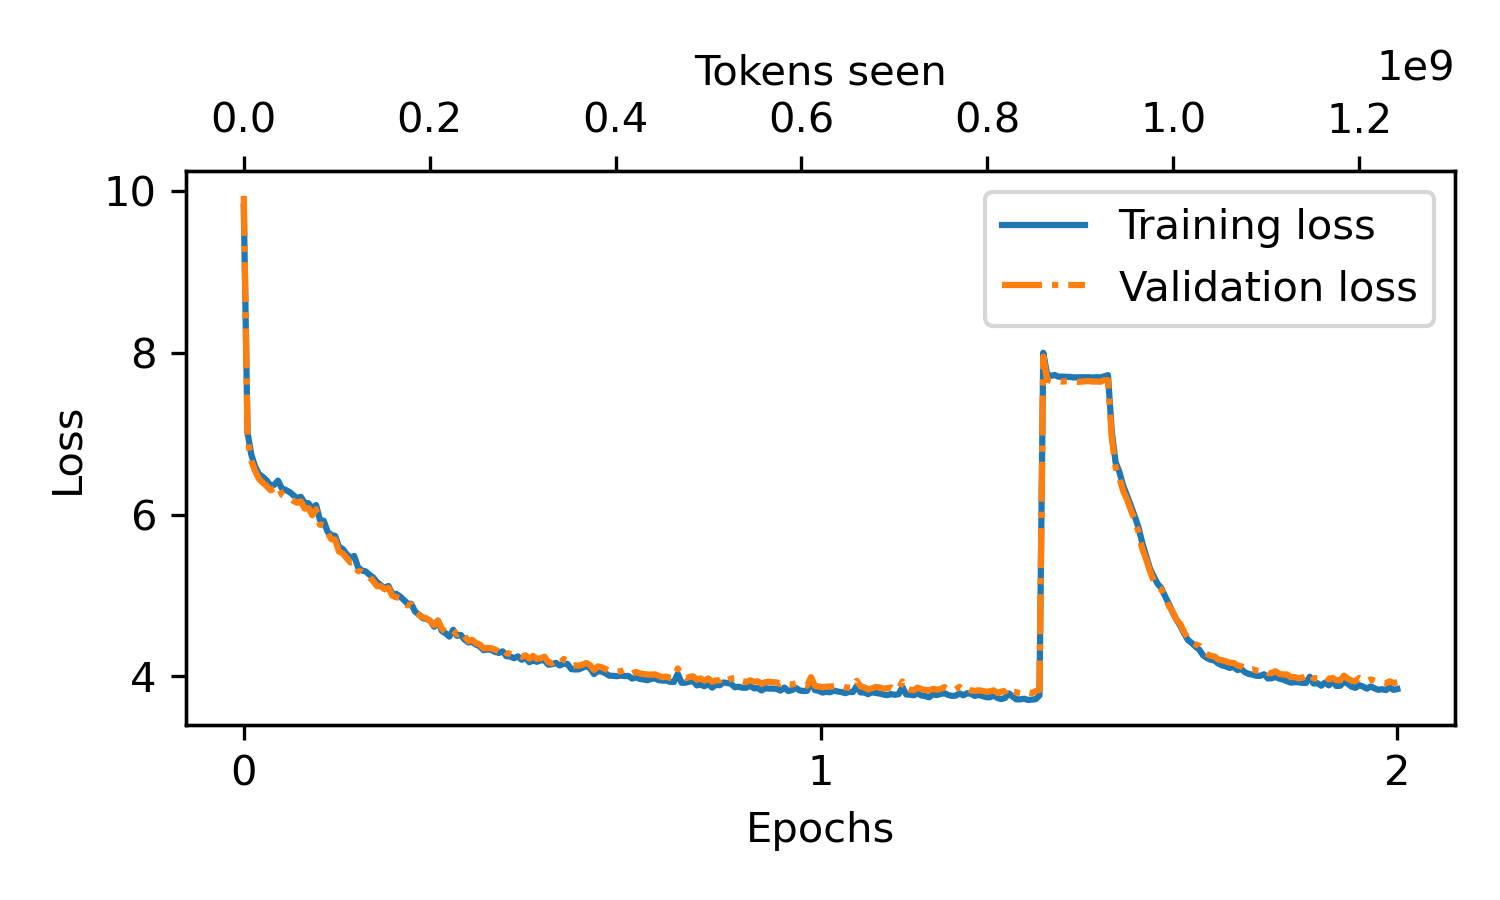
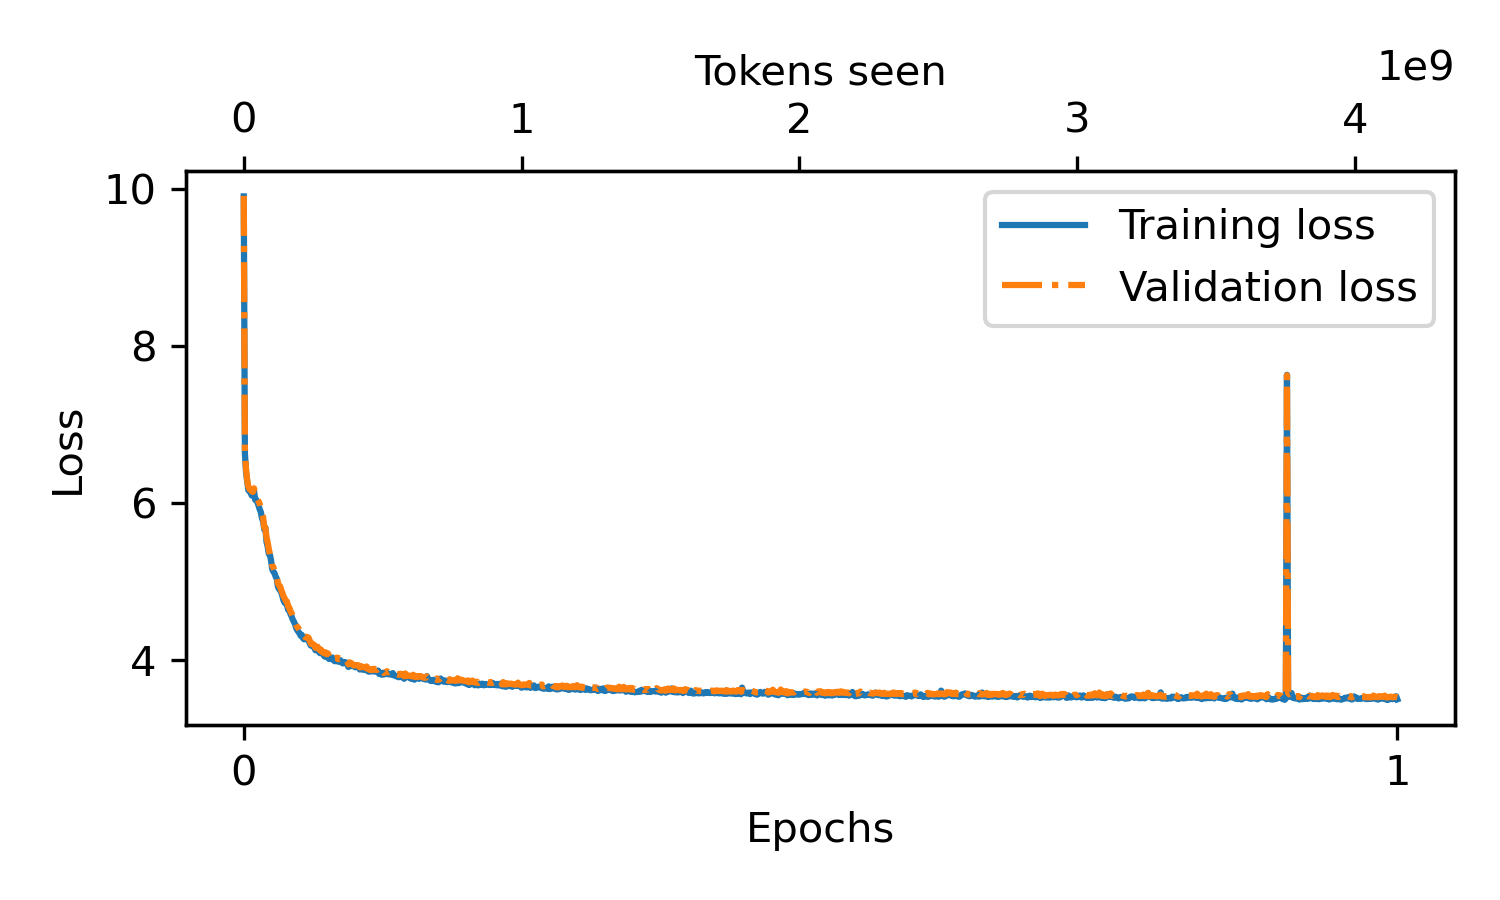
Training completed

diff --git a/gsp-2/p04_inference.py b/gsp-2/p04_inference.py
@@ -2,7 +2,7 @@
 
 # Loads the trained model
 # Runs a test inference to check that the model works
-# A properly trained base model is a neural network that has been taught to speank english from scratch
+# A properly trained base model is a neural network that has been taught to speak english from scratch
 
 # Lugano 17/Jun/2026
 
@@ -28,11 +28,12 @@ if torch.cuda.is_available():
 else:
     console.print(f"\nCUDA not available. Loading model on CPU.", style="gold1")          
 
-# Carga el modelo
+# Loads the model
 print(f"Loading model {MODEL_PATH}")
 model.to(device)
 model.load_state_dict(torch.load(MODEL_PATH, map_location=device, weights_only=True))
 model.eval()
+torch.manual_seed(123) 
 console.print(f"Model loaded\n", style="gold1")
 
 # Solo pruebas en inglés porque OpenWebText es 99% texto inglés